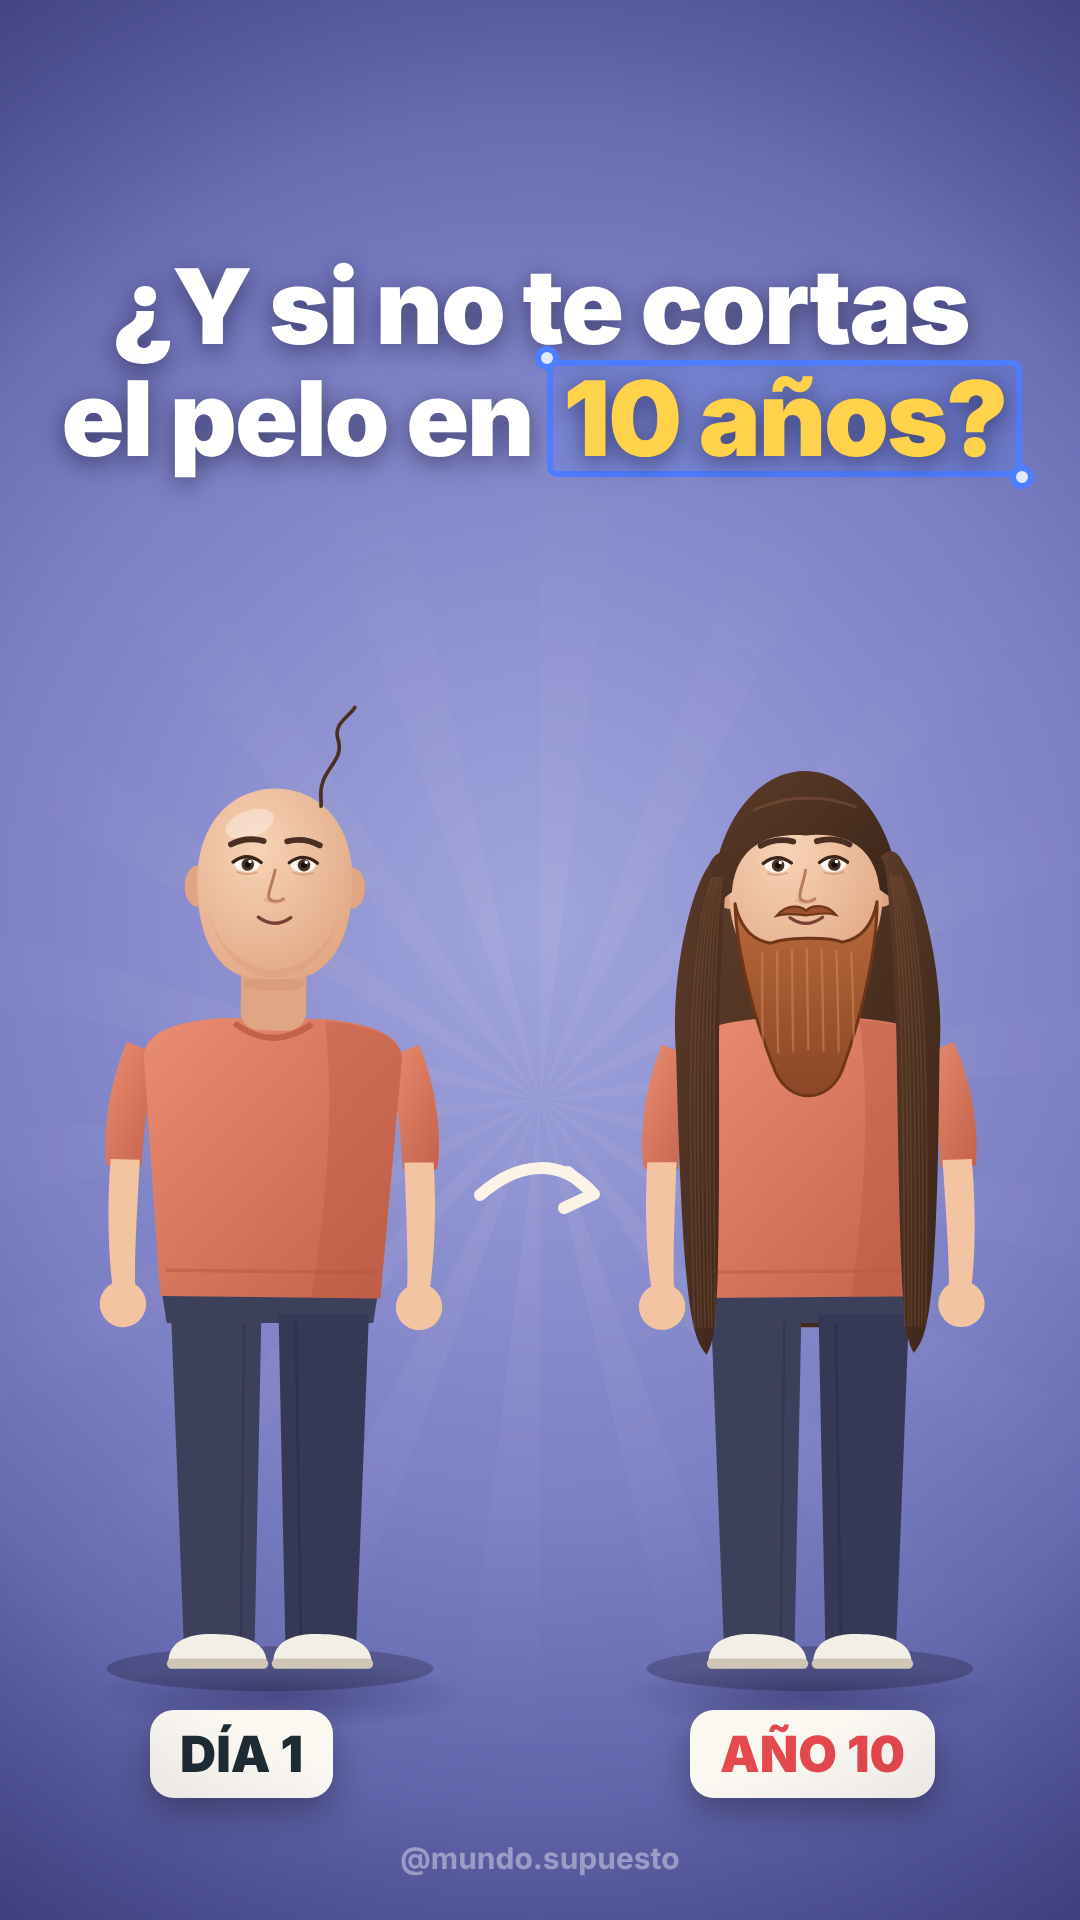
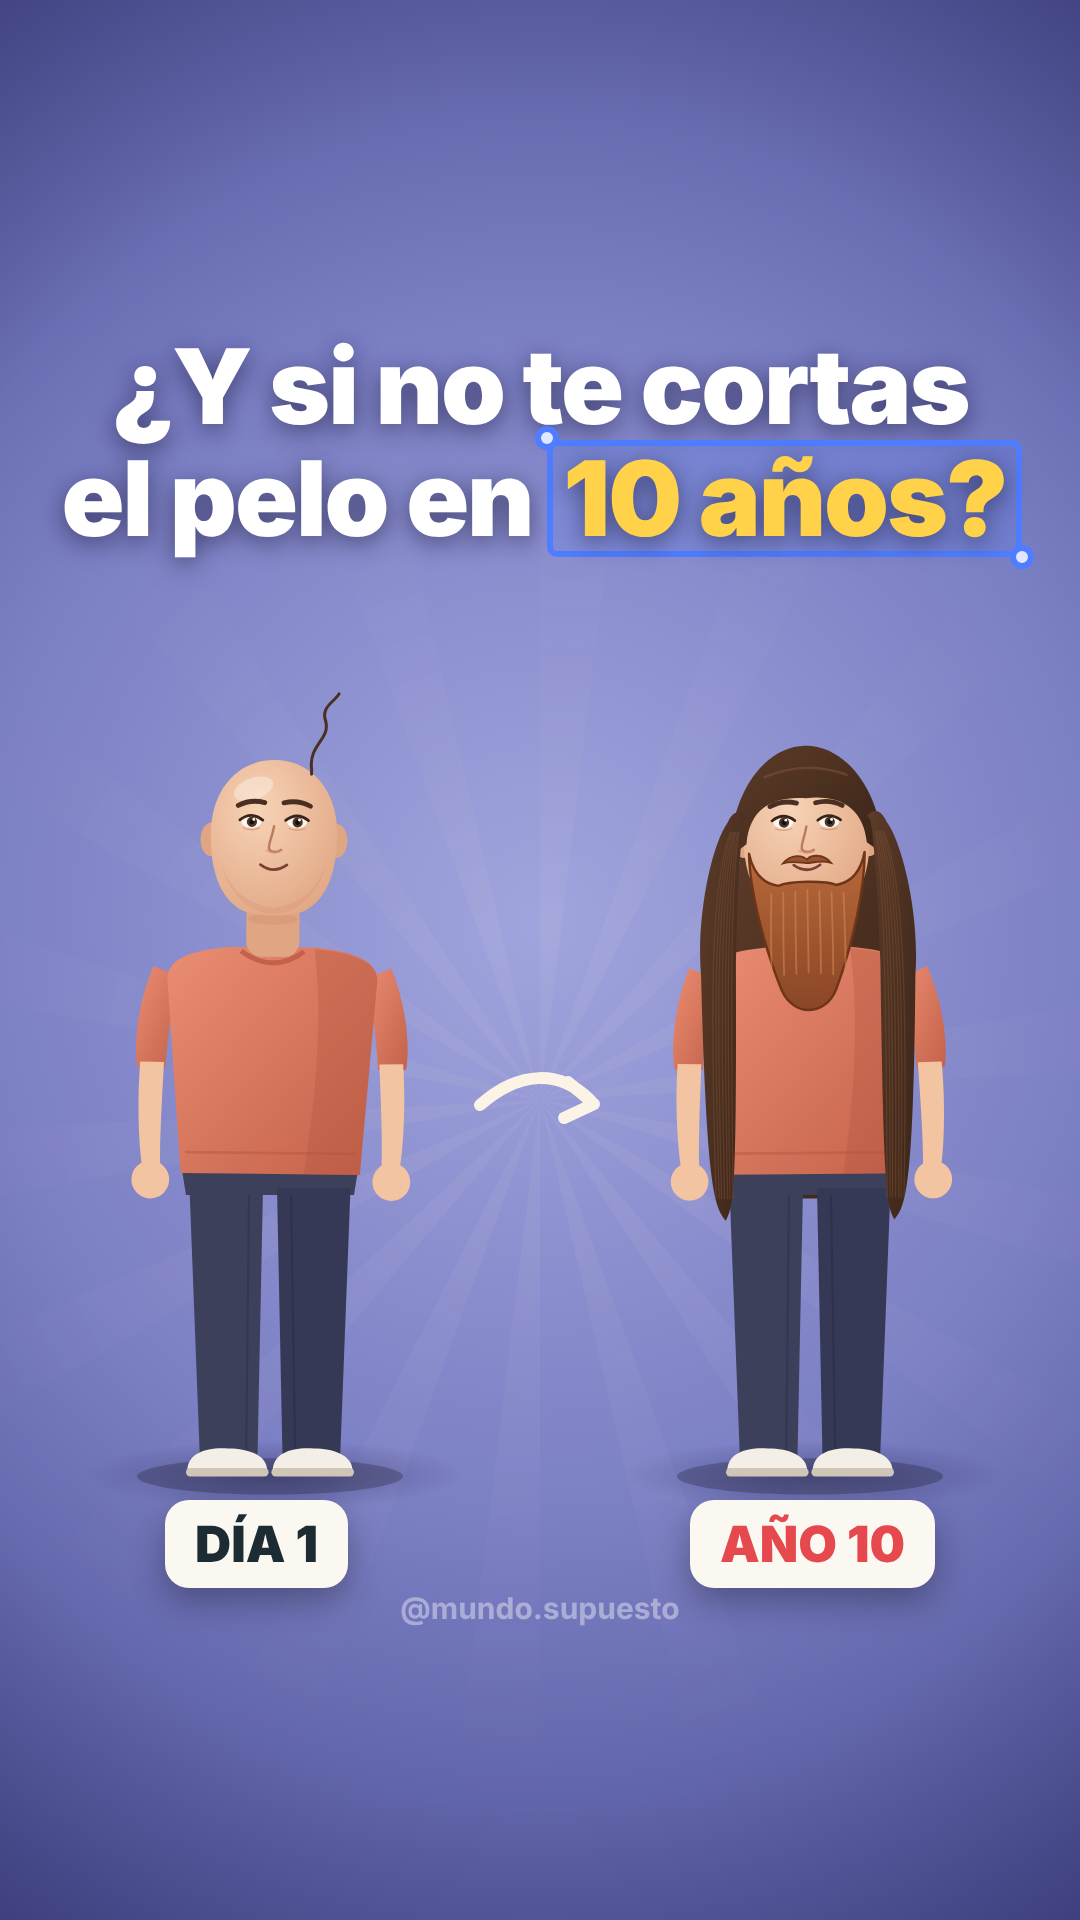
Miniaturas que caben en TikTok (3:4) e Instagram (4:5)
Claude-Session: https://claude.ai/code/session_01FgZK39uRFBPnhEWyncataL

diff --git a/quiz-video/animado/pelo10b/miniatura/hacer.js b/quiz-video/animado/pelo10b/miniatura/hacer.js
@@ -16,26 +16,29 @@ const path = require('path');
   .pj{position:absolute;top:0;width:1000px;height:1800px}
   .wrap{position:absolute;width:1000px;height:1800px;transform-origin:0 0}
   .suelo{position:absolute;width:380px;height:70px;border-radius:50%;background:radial-gradient(50% 50% at 50% 50%, rgba(20,18,60,0.35), rgba(20,18,60,0))}
-  h1{position:absolute;left:60px;right:60px;top:250px;text-align:center;color:#fff;font:900 104px/1.08 Inter;letter-spacing:-0.02em;text-shadow:0 6px 24px rgba(20,18,50,0.55)}
+  h1{position:absolute;left:60px;right:60px;top:330px;text-align:center;color:#fff;font:900 104px/1.08 Inter;letter-spacing:-0.02em;text-shadow:0 6px 24px rgba(20,18,50,0.55)}
   .sel{position:relative;display:inline-block;padding:0 12px;color:#ffd24a}
   .sel span{position:relative}
   .sel i{position:absolute;inset:-2px -4px -2px -4px;border:6px solid #4f7dff;border-radius:10px;background:rgba(79,125,255,0.18)}
   .sel b{position:absolute;width:24px;height:24px;border-radius:50%;background:#dfe8ff;border:6px solid #4f7dff}
   .tag{position:absolute;padding:14px 30px;border-radius:24px;font:900 50px Inter;color:#1d2b33;background:#fbf8f2;box-shadow:0 14px 34px rgba(0,0,0,0.3)}
-  #flecha{position:absolute;left:470px;top:1150px}
-  #marca{position:absolute;left:0;right:0;top:1840px;text-align:center;font:700 30px Inter;color:#fff;opacity:0.4}
+  #flecha{position:absolute;left:470px;top:1060px}
+  #marca{position:absolute;left:0;right:0;top:1590px;text-align:center;font:700 30px Inter;color:#fff;opacity:0.4}
   </style></head><body>
   <div id="bg"></div><div id="rayos"></div>
-  <div class="suelo" style="left:90px;top:1660px"></div><div class="suelo" style="left:620px;top:1660px"></div>
-  <div class="wrap" style="left:-160px;top:205px;transform:scale(0.86)">${p0}</div>
-  <div class="wrap" style="left:380px;top:205px;transform:scale(0.86)">${p5}</div>
+  <div class="suelo" style="left:85px;top:1440px"></div><div class="suelo" style="left:625px;top:1440px"></div>
+  <div class="wrap" style="left:-80px;top:285px;transform:scale(0.7)">${p0}</div>
+  <div class="wrap" style="left:460px;top:285px;transform:scale(0.7)">${p5}</div>
   <svg id="flecha" width="140" height="90" viewBox="0 0 140 90"><path d="M10,45 C50,10 90,10 120,40" stroke="#fbf3e6" stroke-width="12" fill="none" stroke-linecap="round"/><path d="M98,22 L124,44 L94,58" stroke="#fbf3e6" stroke-width="12" fill="none" stroke-linecap="round" stroke-linejoin="round"/></svg>
-  <div class="tag" style="left:150px;top:1710px">DÍA 1</div>
-  <div class="tag" style="left:690px;top:1710px;color:#e5484d">AÑO 10</div>
+  <div class="tag" style="left:165px;top:1500px">DÍA 1</div>
+  <div class="tag" style="left:690px;top:1500px;color:#e5484d">AÑO 10</div>
   <h1>¿Y si no te cortas el pelo en <span class="sel"><i></i><b style="left:-16px;top:-16px"></b><b style="right:-16px;bottom:-14px"></b><span>10 años?</span></span></h1>
   <div id="vin"></div><div id="marca">@mundo.supuesto</div>
   </body></html>`;
   await p.setContent(html); await p.waitForTimeout(400);
   await p.screenshot({ path: dir + '/miniatura/miniatura_9x16.png' });
+  // recortes exactos: TikTok 3:4 (1080x1440) e Instagram 4:5 (1080x1350), centrados
+  await p.screenshot({ path: dir + '/miniatura/miniatura_tiktok_3x4.png', clip: { x: 0, y: 240, width: 1080, height: 1440 } });
+  await p.screenshot({ path: dir + '/miniatura/miniatura_instagram_4x5.png', clip: { x: 0, y: 285, width: 1080, height: 1350 } });
   await b.close();
 })();

diff --git a/quiz-video/animado/INSTRUCCIONES.md b/quiz-video/animado/INSTRUCCIONES.md
@@ -101,8 +101,9 @@ Haz SIEMPRE `git pull` antes de empezar y `git commit` + `git push` al acabar.
 
 ## 7. Entrega (SIEMPRE, solo esto)
 1. El **MP4 con subtítulos** (no hacer versión sin subtítulos).
-2. La **miniatura 9:16** (`node miniatura/hacer.js` → `miniatura/miniatura_9x16.png`): título con recuadro azul,
-   antes/después del personaje sacado del propio vídeo, marca de agua.
+2. Las **miniaturas** (`node miniatura/hacer.js`): `miniatura_9x16.png` + recortes exactos `miniatura_tiktok_3x4.png`
+   (1080x1440) y `miniatura_instagram_4x5.png` (1080x1350). TODO lo importante (título, personajes, etiquetas,
+   marca) dentro de la franja central y 300-1620 px de alto: TikTok e Instagram recortan arriba y abajo (usuario 01-11-2026).
 3. En el mensaje, **una descripción para copiar y pegar**:
    - el texto de los subtítulos;
    - una frase que invite a COMPARTIR y a SEGUIR a @mundo.supuesto para más (antes de los hashtags);
